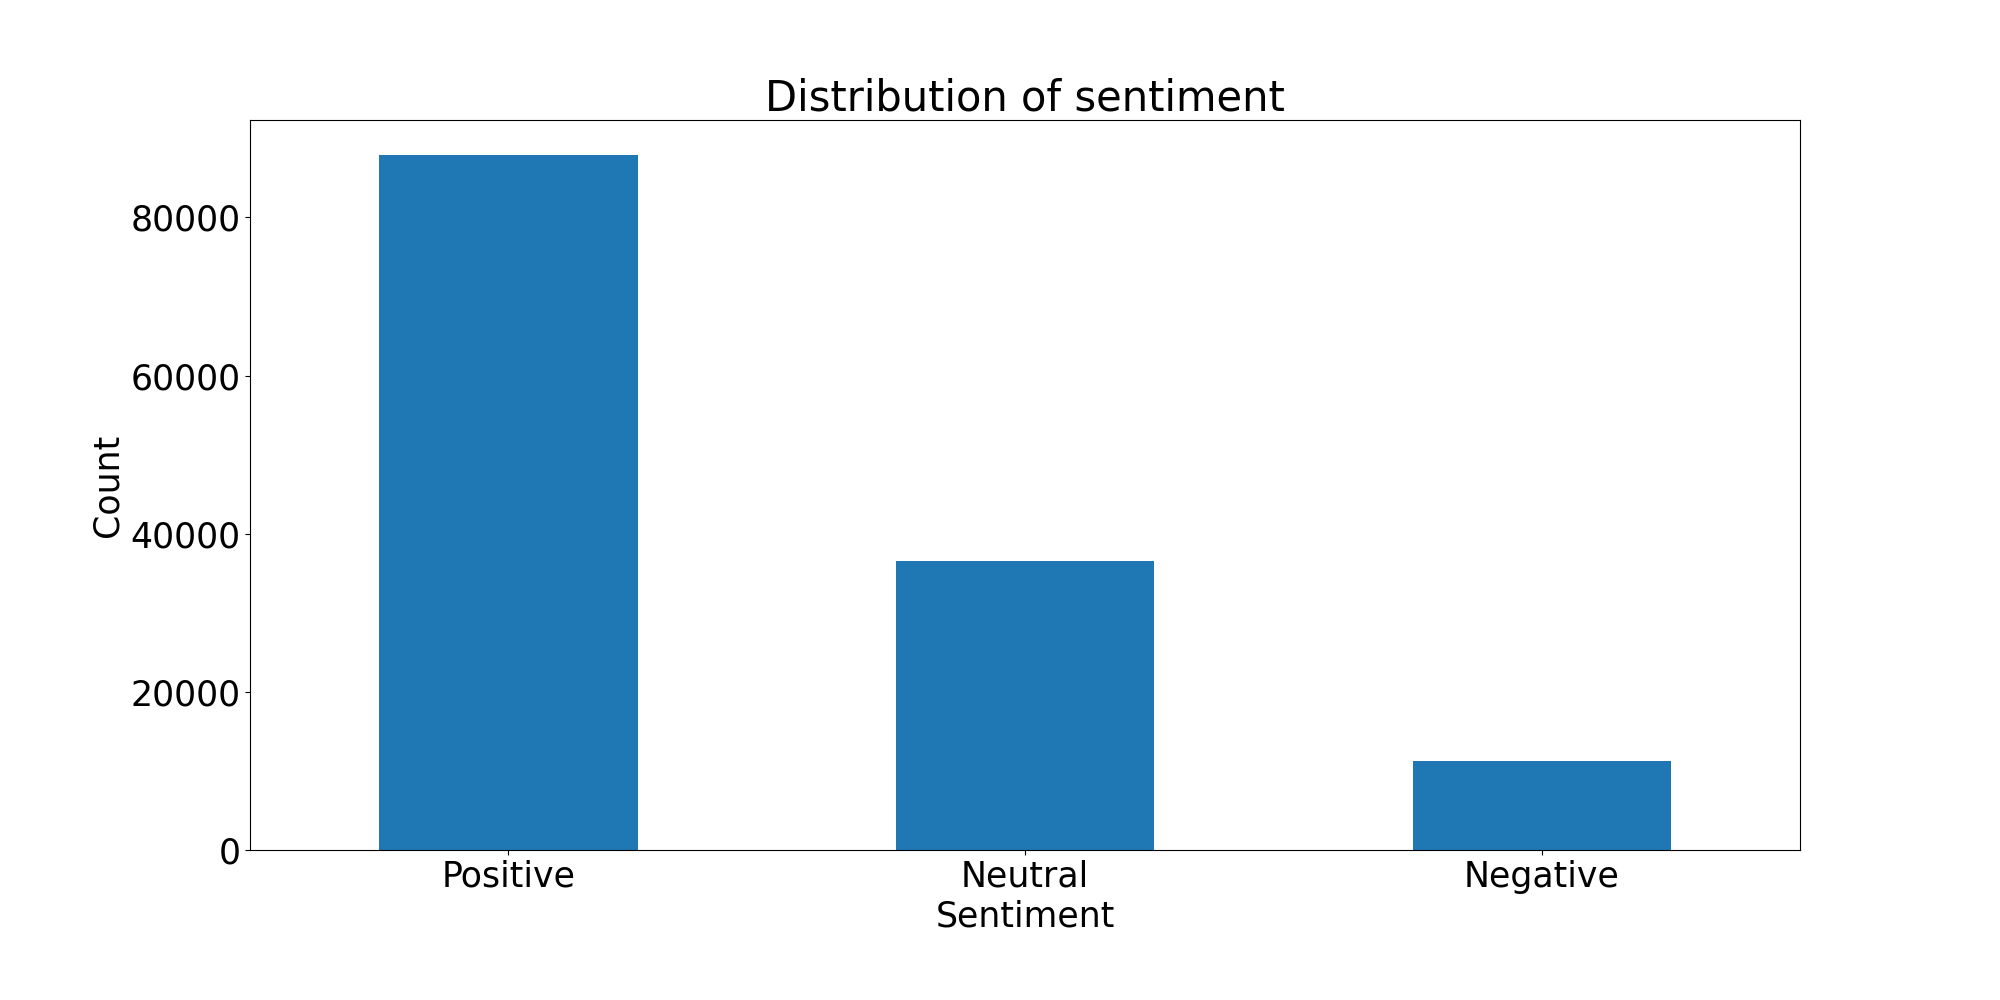
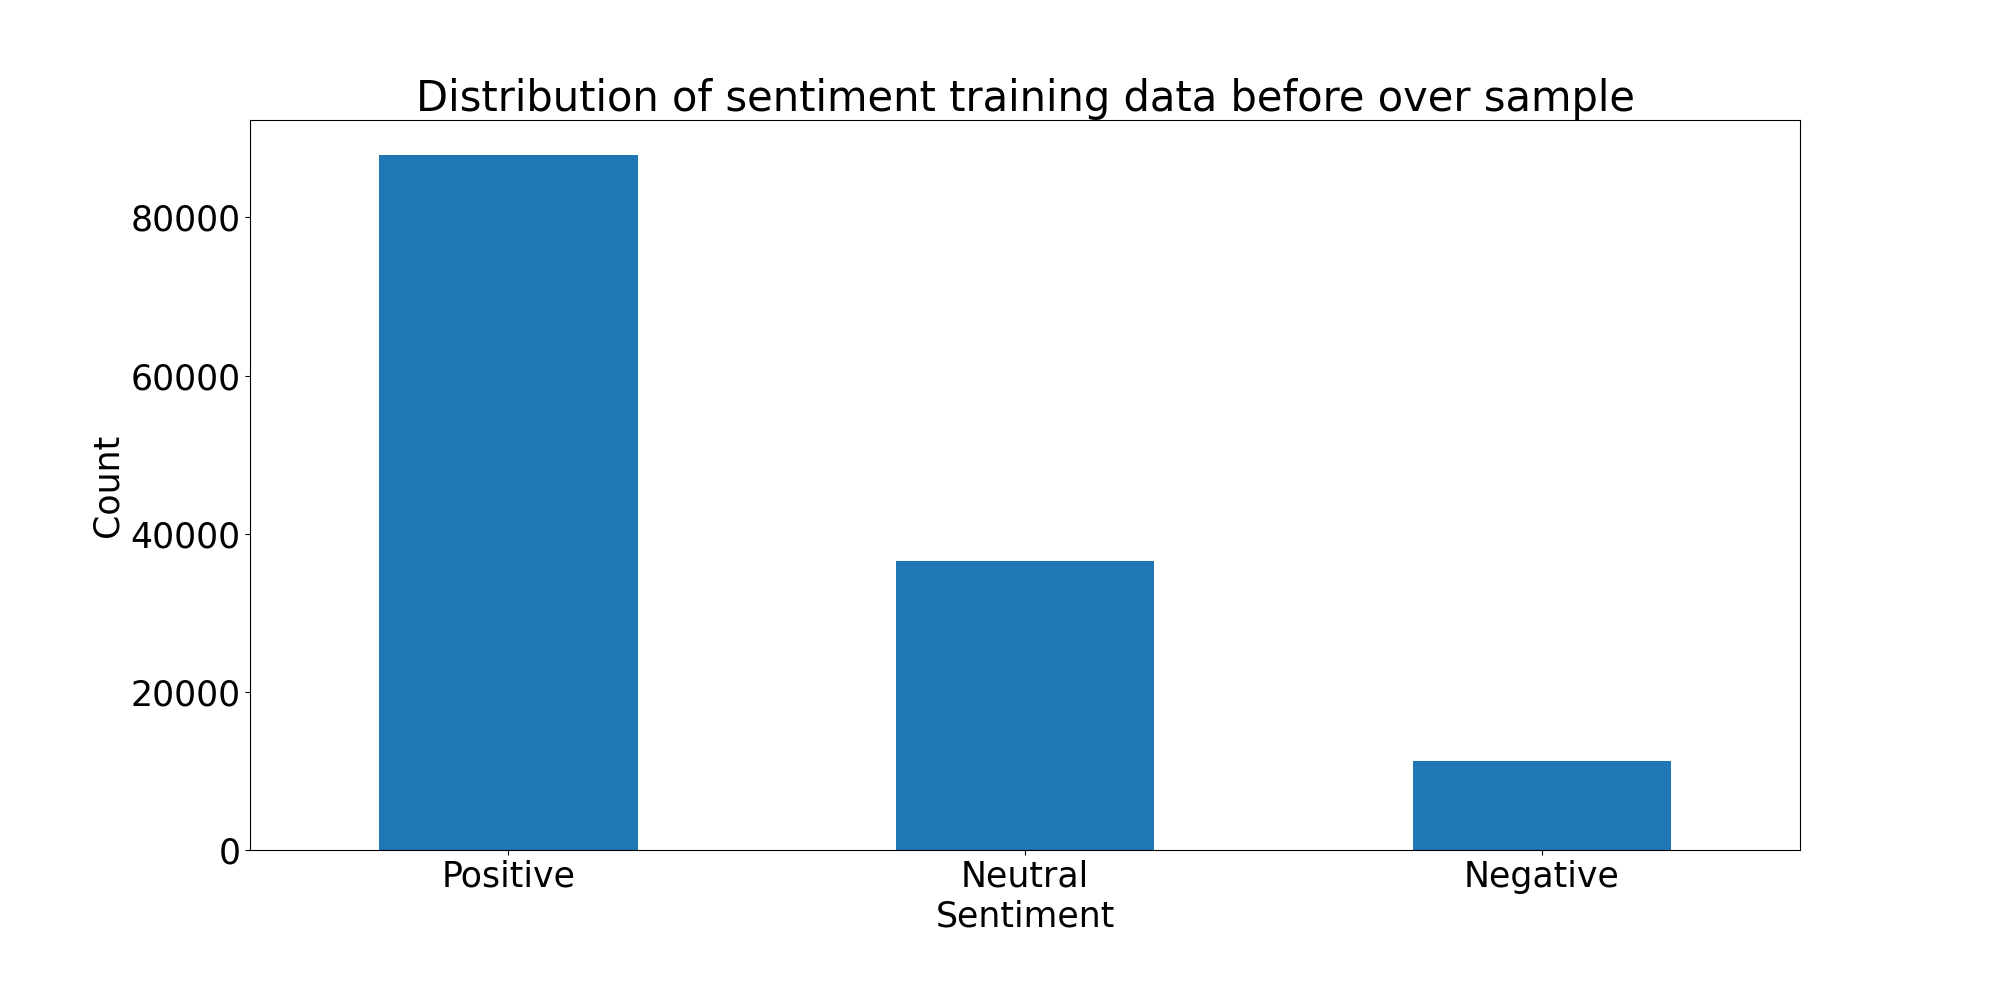
Update

Changed region(s): [[0.217, 0.062, 0.837, 0.124]]

diff --git a/data_analysis.py b/data_analysis.py
@@ -16,8 +16,7 @@ def word_counts(data):
         counter.update(tokens(text))
 
     # Remove stop words
-    stop_words = nlp.Defaults.stop_words
-    for word in stop_words:
+    for word in nlp.Defaults.stop_words:
         counter.pop(word, None)
 
     # Convert to list of tuples
@@ -30,7 +29,7 @@ def plot_word_count(data, save=False, concat_string=''):
     plt.figure(figsize=(20, 10))
     plt.subplots_adjust(bottom=0.30)
     plt.grid(axis='y', alpha=0.75)
-    plt.title('Word count')
+    plt.title(f'Word count{concat_string.replace("_", " ")}')
     plt.xlabel('Word')
     plt.ylabel('Count')
 
@@ -48,7 +47,7 @@ def plot_text_length(data, save=False, concat_string=''):
     plt.subplots_adjust(bottom=0.15)
     plt.grid(axis='y', alpha=0.75)
     plt.grid(axis='x', alpha=0.0)
-    plt.title('Distribution of text length')
+    plt.title(f'Distribution of text length{concat_string.replace("_", " ")}')
     plt.xlabel('Text length')
     plt.ylabel('Count')
 
@@ -65,7 +64,7 @@ def plot_distribution_sentiment(data, save=False, concat_string=''):
     plt.figure(figsize=(20, 10))
     plt.subplots_adjust(bottom=0.15)
     plt.grid(axis='y', alpha=0.75)
-    plt.title('Distribution of sentiment')
+    plt.title(f'Distribution of sentiment{concat_string.replace("_", " ")}')
     plt.xlabel('Sentiment')
     plt.ylabel('Count')
 
@@ -94,7 +93,7 @@ def analyze_data(data, save=False, concat_string=''):
 
 if __name__ == '__main__':
     cleaned_data = read_clean_data()
-    analyze_data(cleaned_data, save=True, concat_string='all_data')
+    analyze_data(cleaned_data, save=True, concat_string='_all_data')
 
     # Plots changes for over sampling
     train, test = split_data(cleaned_data, random_state=42, validation=False, over_sample_train=False)

diff --git a/train_my_model.py b/train_my_model.py
@@ -56,7 +56,7 @@ if __name__ == '__main__':
     device = torch.device("cuda" if torch.cuda.is_available() else "cpu")
 
     cleaned_data = read_clean_data()
-    train_data, validation_data, _ = split_data(cleaned_data, random_state=seed, validation=True, over_sample_train=False)
+    train_data, validation_data, _ = split_data(cleaned_data, random_state=seed, validation=True, over_sample_train=True)
 
     model_name = "distilbert-base-uncased"
 
@@ -105,7 +105,7 @@ if __name__ == '__main__':
         train_dataset=train_dataset,
         eval_dataset=validation_dataset,
         compute_metrics=compute_metrics,
-        callbacks = [EarlyStoppingCallback(early_stopping_patience=3)]
+        callbacks = [EarlyStoppingCallback(early_stopping_patience=5)]
     )
 
 
